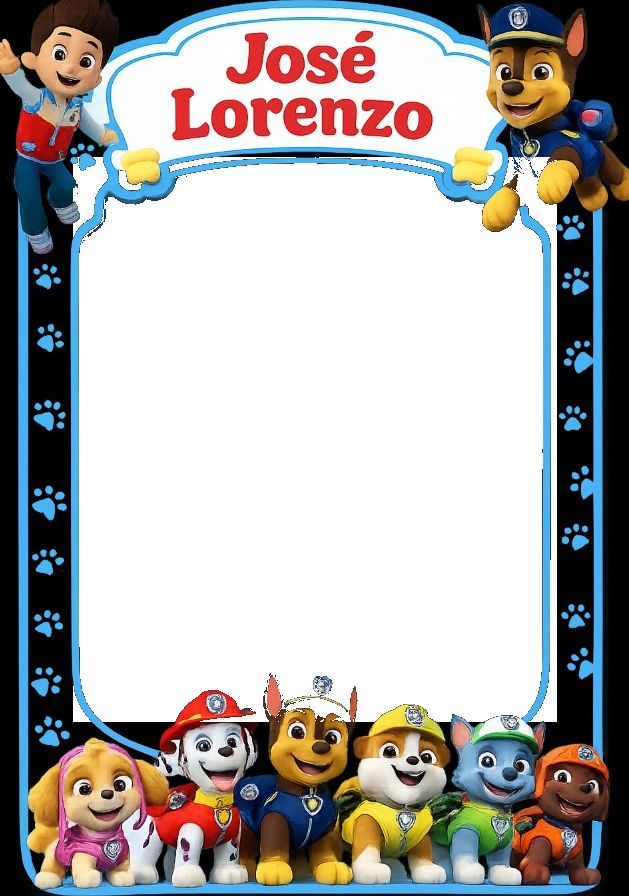
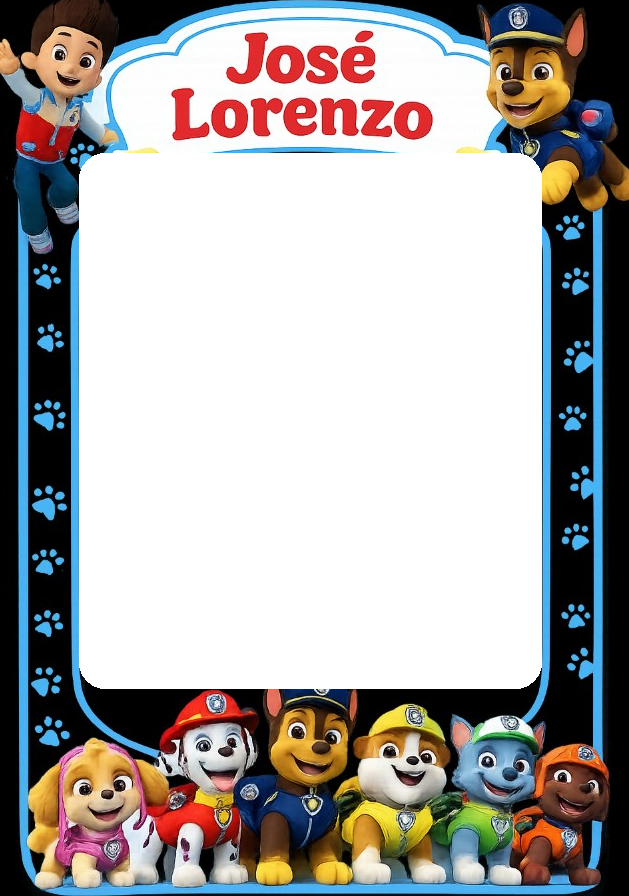
fix(foto): restaura cores dos bonecos mantendo moldura full bleed

Changed region(s): [[0.0906, 0.1562, 0.9062, 0.8125], [0.0906, 0.75, 0.3323, 0.8125]]

diff --git a/index.html b/index.html
@@ -850,7 +850,7 @@
     <section class="qr-section" aria-labelledby="qr-title">
       <h3 id="qr-title">📷 Foto da missão</h3>
       <p>Tire uma foto com a moldura da Patrulha Canina!</p>
-      <a class="btn-camera" id="qr-camera-link" href="foto.html?v=8">Abrir câmera temática</a>
+      <a class="btn-camera" id="qr-camera-link" href="foto.html?v=9">Abrir câmera temática</a>
     </section>
 
     <section class="mission" aria-label="Mensagem da turma">
@@ -953,7 +953,7 @@
 
       var cameraLink = document.getElementById("qr-camera-link");
       if (cameraLink) {
-        cameraLink.href = new URL("foto.html?v=8", window.location.href).href;
+        cameraLink.href = new URL("foto.html?v=9", window.location.href).href;
       }
 
       function hideOverlay() {

diff --git a/foto.html b/foto.html
@@ -243,7 +243,7 @@
       <img
         id="frame-overlay"
         class="frame-overlay"
-        src="assets/moldura-patrulha.png?v=6"
+        src="assets/moldura-patrulha.png?v=7"
         alt=""
         aria-hidden="true"
         decoding="async"
@@ -307,7 +307,7 @@
         }
       }
 
-      var FRAME_SRC = "assets/moldura-patrulha.png?v=6";
+      var FRAME_SRC = "assets/moldura-patrulha.png?v=7";
       var FRAME_W = 629;
       var FRAME_H = 896;
       var VIDEO_FOCUS_Y = 0.4;
